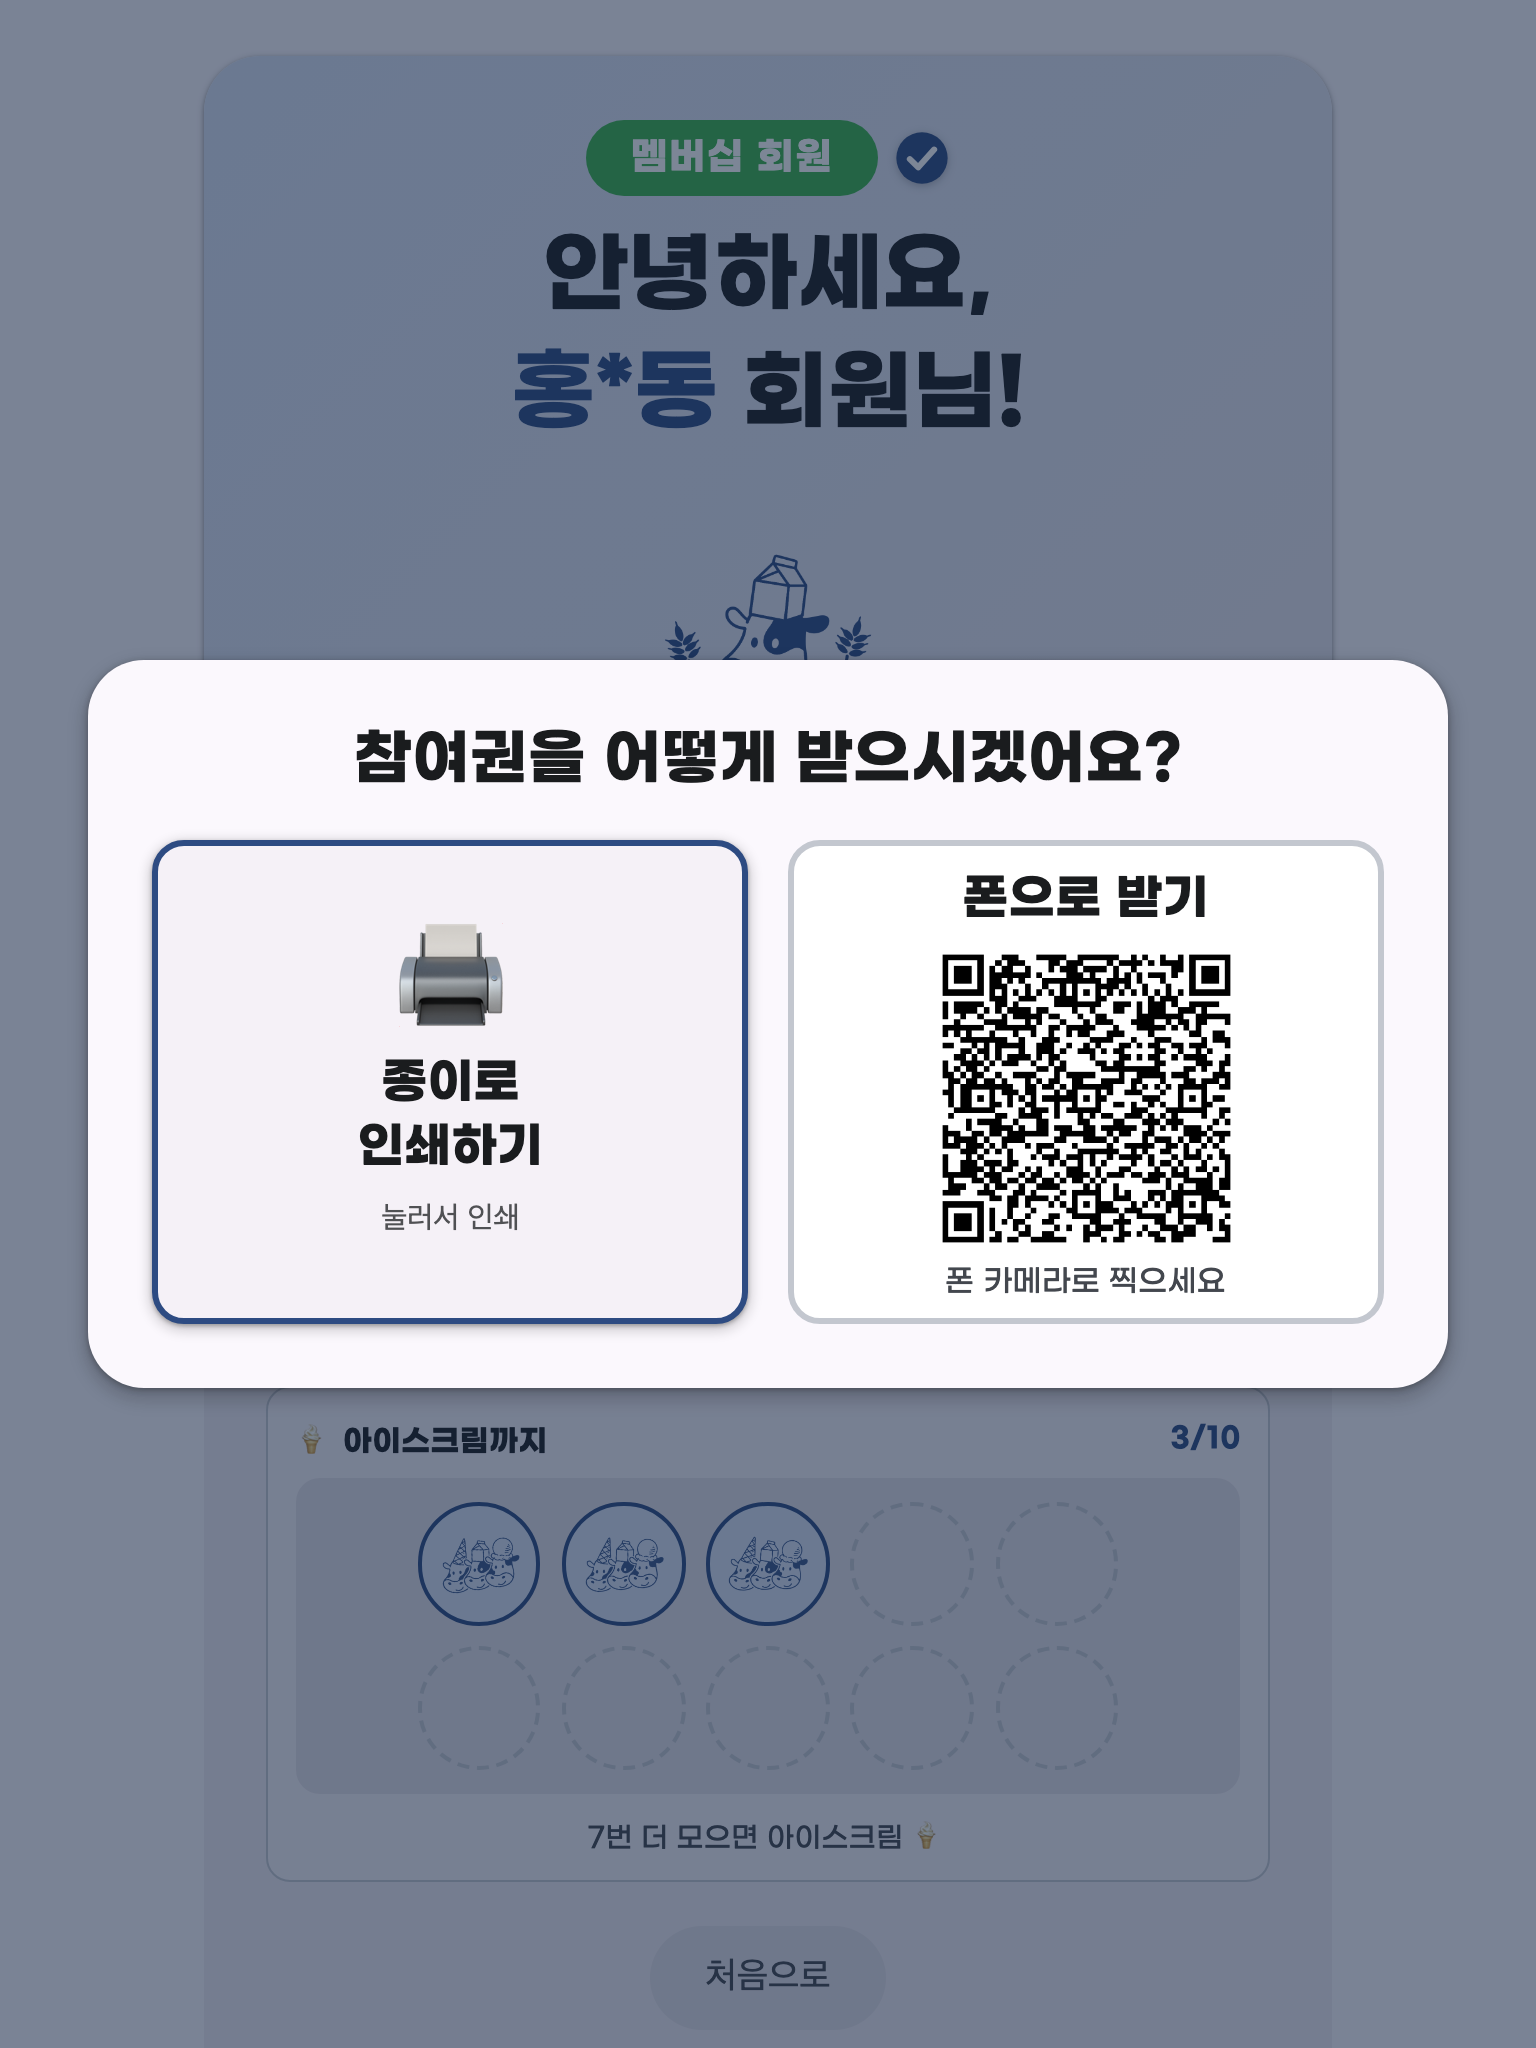
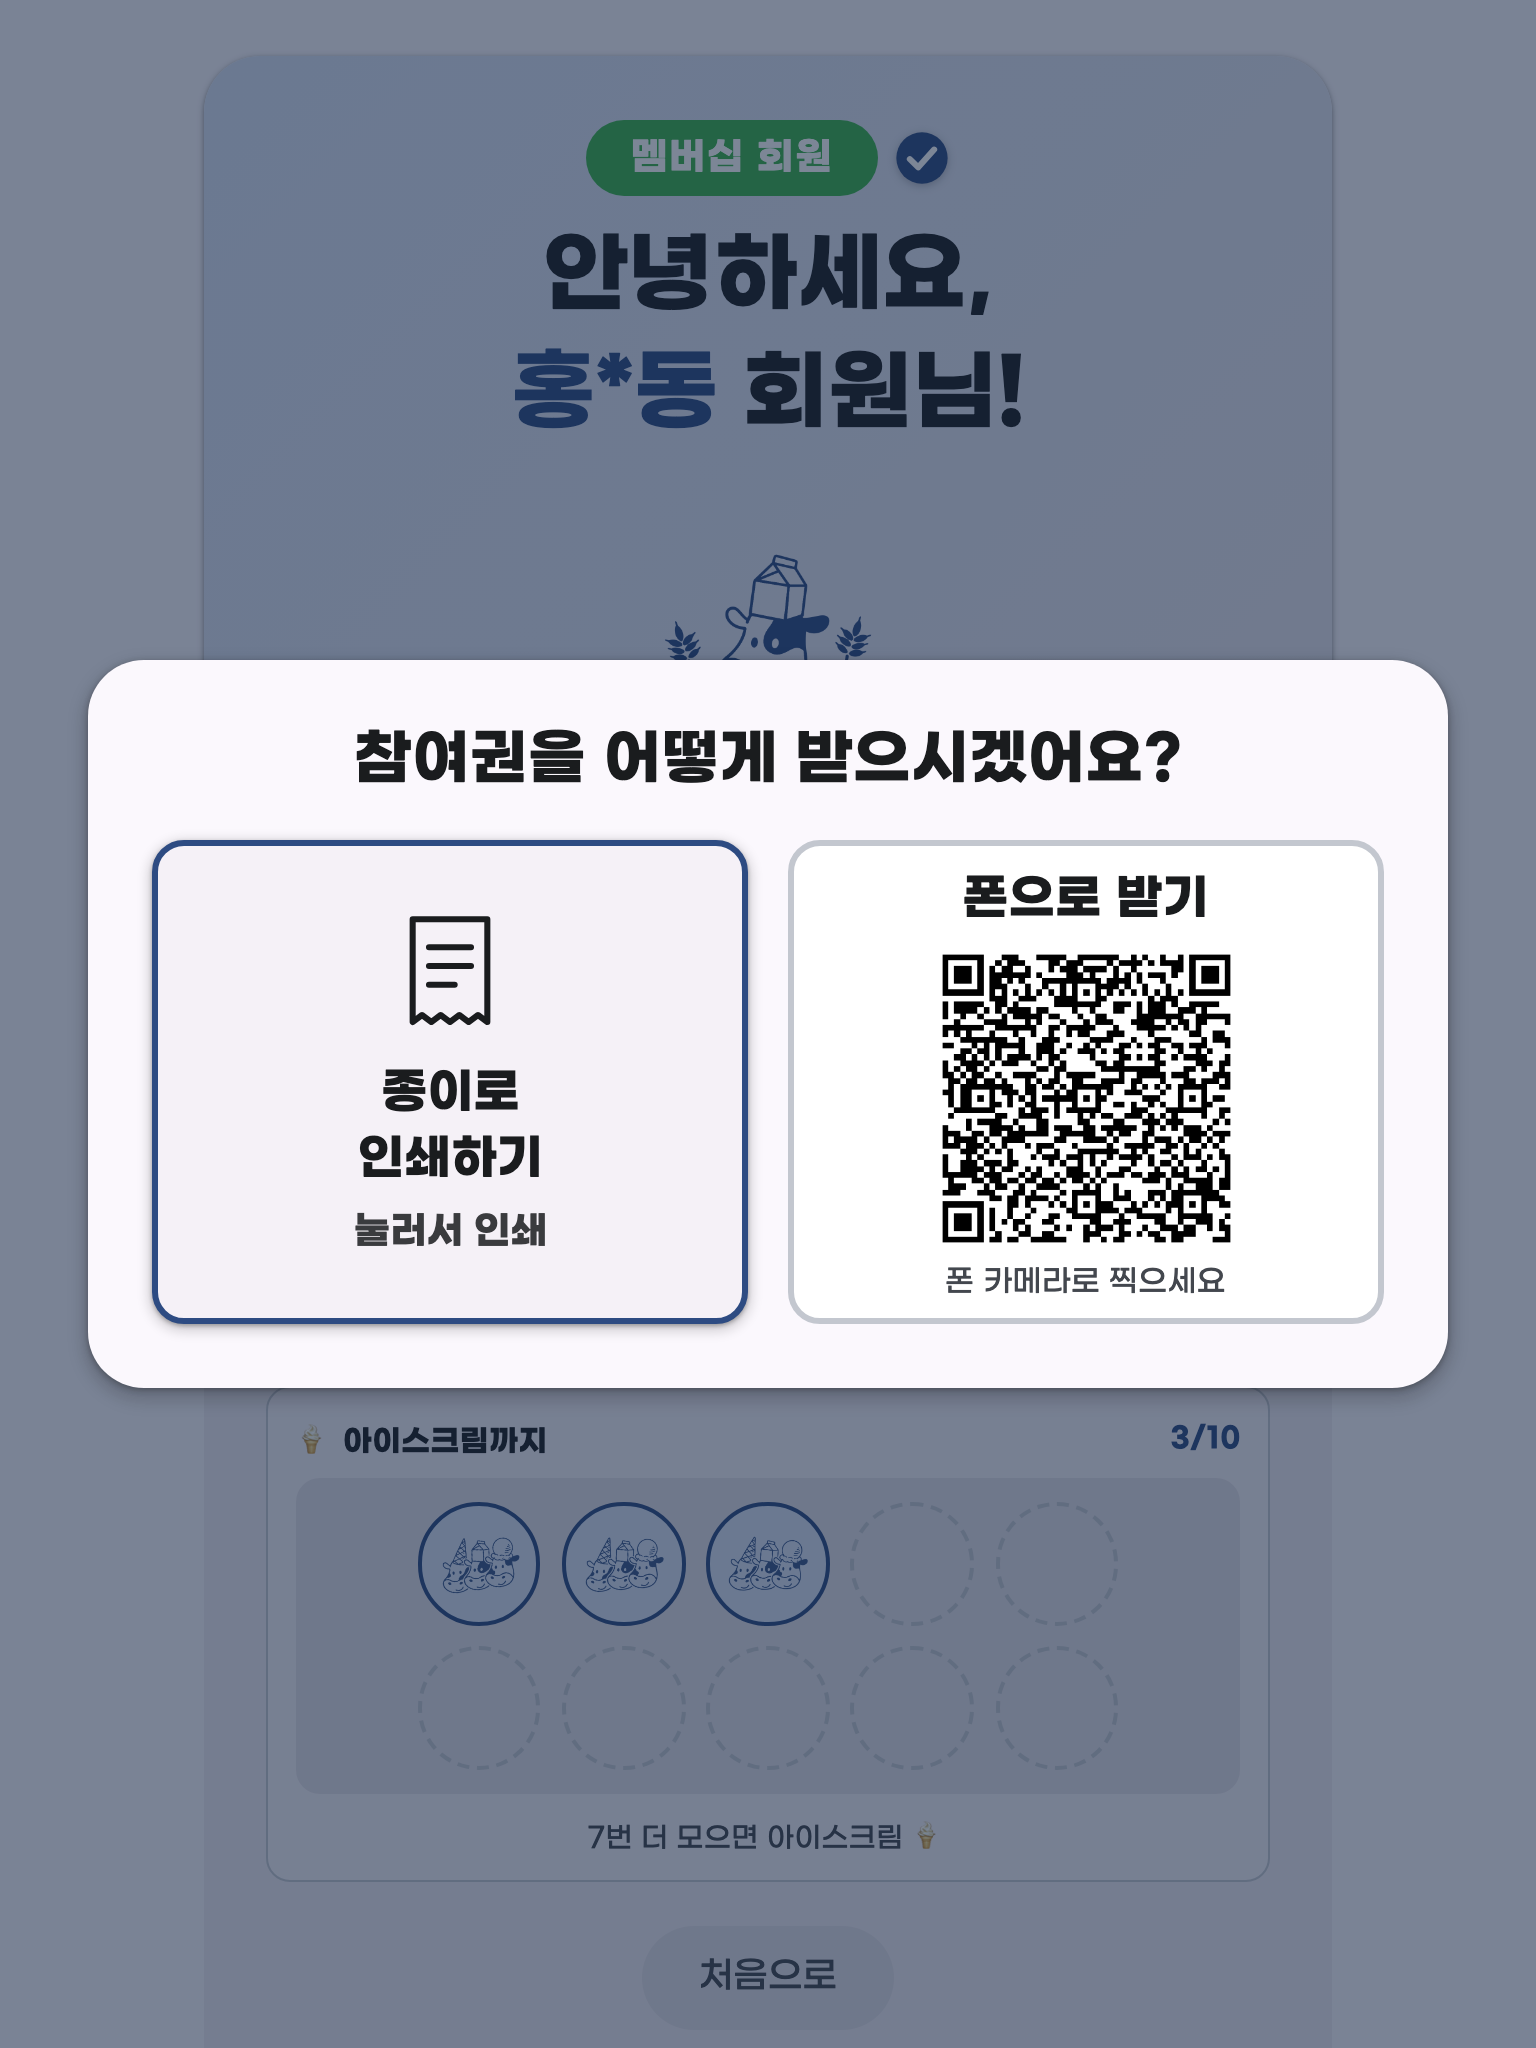
feat(membership): 종이 버튼 = 선화 영수증 아이콘 + «눌러서 인쇄» 확대
유저: 「종이로 인쇄하기는 아이콘을 좀더 영수증 종이 아이콘으로. 눌러서 인쇄 글씨도 더 크게.」

■ 이모지 🖨 → **선화 SVG 영수증**(톱니 절취선 + 텍스트 줄).
- 근거: 마스코트·로고·스탬프가 전부 선화라 **이모지만 질감이 튀었다**(플랫 컬러 3D).
- currentColor 사용 → 눌림 시 색 반전에도 아이콘이 자동으로 따라간다(별도 상태 스타일 불요).
■ «눌러서 인쇄» 14→19px — 가입 버튼 «눌러서 가입»과 **같은 축**(어르신 가독 기준 통일).

검증: SVG 적용·이모지 제거·19px·아이콘 56px·**버튼/패널 위계 동급 유지**(치수 동일)·시각 확인.
캡처 갱신(docs/shots/).

Claude-Session: https://claude.ai/code/session_01VGU91Dob7h1pvcRDeXmNha

Changed region(s): [[0.2188, 0.4375, 0.375, 0.625], [0.4688, 0.9375, 0.5312, 0.9688]]

diff --git a/apps/membership/src/components/Kiosk/MemberCard.jsx b/apps/membership/src/components/Kiosk/MemberCard.jsx
@@ -153,7 +153,18 @@ export default function MemberCard({ member, history = [], claiming, redeeming, 
                   <div className="mk-pick-row">
                     {/* 종이 = 버튼 */}
                     <button type="button" className="mk-pick-btn" onClick={() => { setChoice('paper'); doPrint(issuedTicket.token, false) }}>
-                      <span className="mk-pick-ico" aria-hidden="true">🖨</span>
+                      {/* ★이모지 프린터 → **선화 영수증 아이콘**(2026-08-06): 우리 마스코트·로고가 전부
+                          선화라 이모지만 질감이 튀었다. 톱니 절취선 + 텍스트 줄 = «영수증»이 형태로 읽힌다.
+                          currentColor 를 써서 눌림 상태(색 반전)에도 자동으로 따라간다. */}
+                      <svg className="mk-pick-ico-svg" viewBox="0 0 48 56" aria-hidden="true">
+                        <path
+                          d="M8 4h32v44l-4-3-4 3-4-3-4 3-4-3-4 3-4-3-4 3z"
+                          fill="none" stroke="currentColor" strokeWidth="2.6"
+                          strokeLinejoin="round" strokeLinecap="round"
+                        />
+                        <path d="M15 16h18M15 24h18M15 32h11" fill="none" stroke="currentColor"
+                          strokeWidth="2.6" strokeLinecap="round" />
+                      </svg>
                       <span className="mk-pick-label">종이로<br />인쇄하기</span>
                       <span className="mk-pick-sub">눌러서 인쇄</span>
                     </button>

diff --git a/apps/membership/src/components/Kiosk/Kiosk.css b/apps/membership/src/components/Kiosk/Kiosk.css
@@ -846,7 +846,7 @@
 .mk-pick-qr { width: clamp(96px, 15vh, 150px); height: auto; display: block; }
 .mk-pick-sub { font-size: clamp(12px, 2.2vw, 15px); color: var(--md-on-surface-variant); }
 .mk-pick-panel .mk-pick-sub { color: #43474E; }
-.mk-pick-btn .mk-pick-sub { color: inherit; opacity: .75; }
+.mk-pick-btn .mk-pick-sub { color: inherit; opacity: .85; font-size: clamp(15px, 2.6vw, 19px); font-weight: 600; }  /* ★확대(2026-08-06): 가입 버튼 «눌러서 가입»과 같은 축 */
 
 /* ★가입 안내 = 조회 버튼 아래 + «명백한 버튼»(2026-08-06 유저: 「타원만으론 어르신들이 잘 모르실 수 있어」).
    키오스크 전체 버튼 문법 통일: primary 테두리 + 입체감 + 즉시 눌림 피드백(2택 모달 종이 버튼과 동일). */
@@ -869,3 +869,6 @@
   background: var(--md-primary-container); color: var(--md-on-primary-container); transform: scale(0.98);
 }
 @media (prefers-reduced-motion: reduce) { .mk-signup-btn:active { transform: none; } }
+
+/* 선화 영수증 아이콘 — 이모지 대신(브랜드 선화 세계와 결 맞춤). 크기는 종전 이모지 자리와 동등. */
+.mk-pick-ico-svg { width: clamp(38px, 7.5vw, 56px); height: auto; display: block; }
